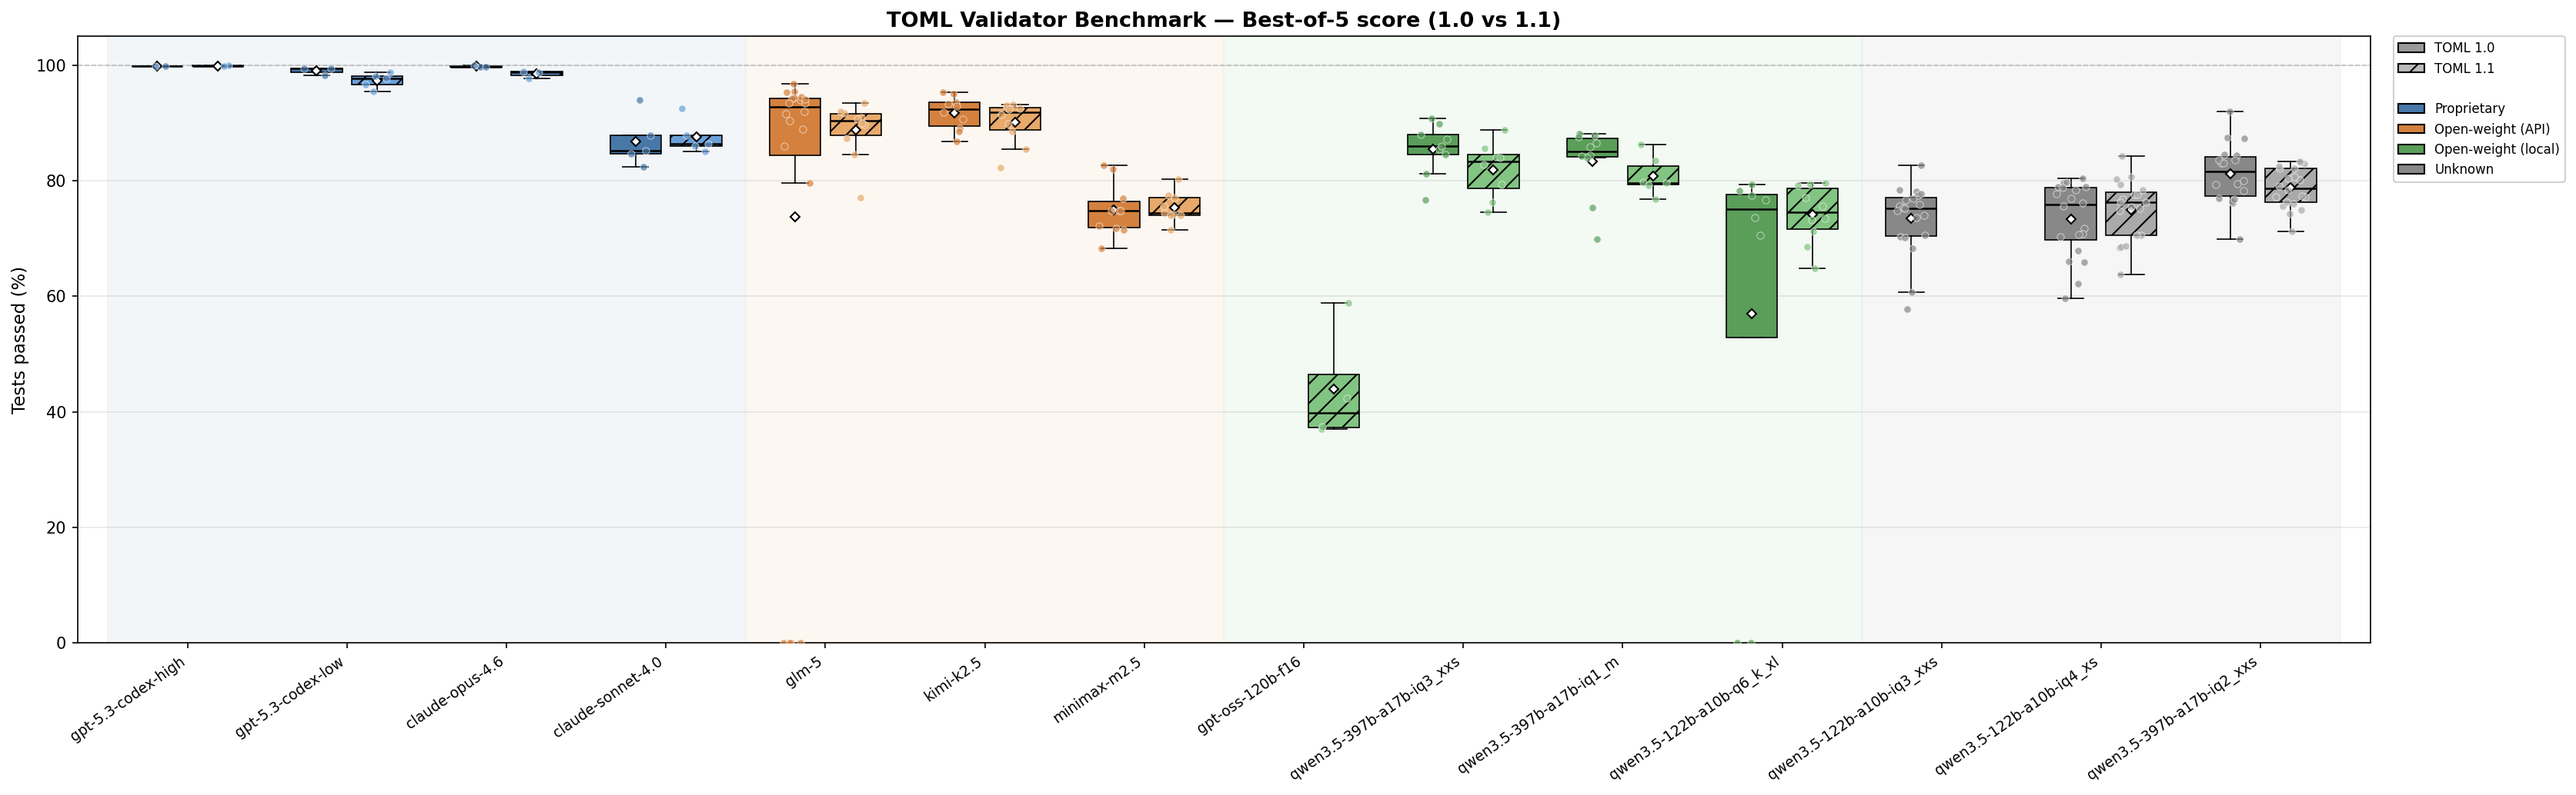
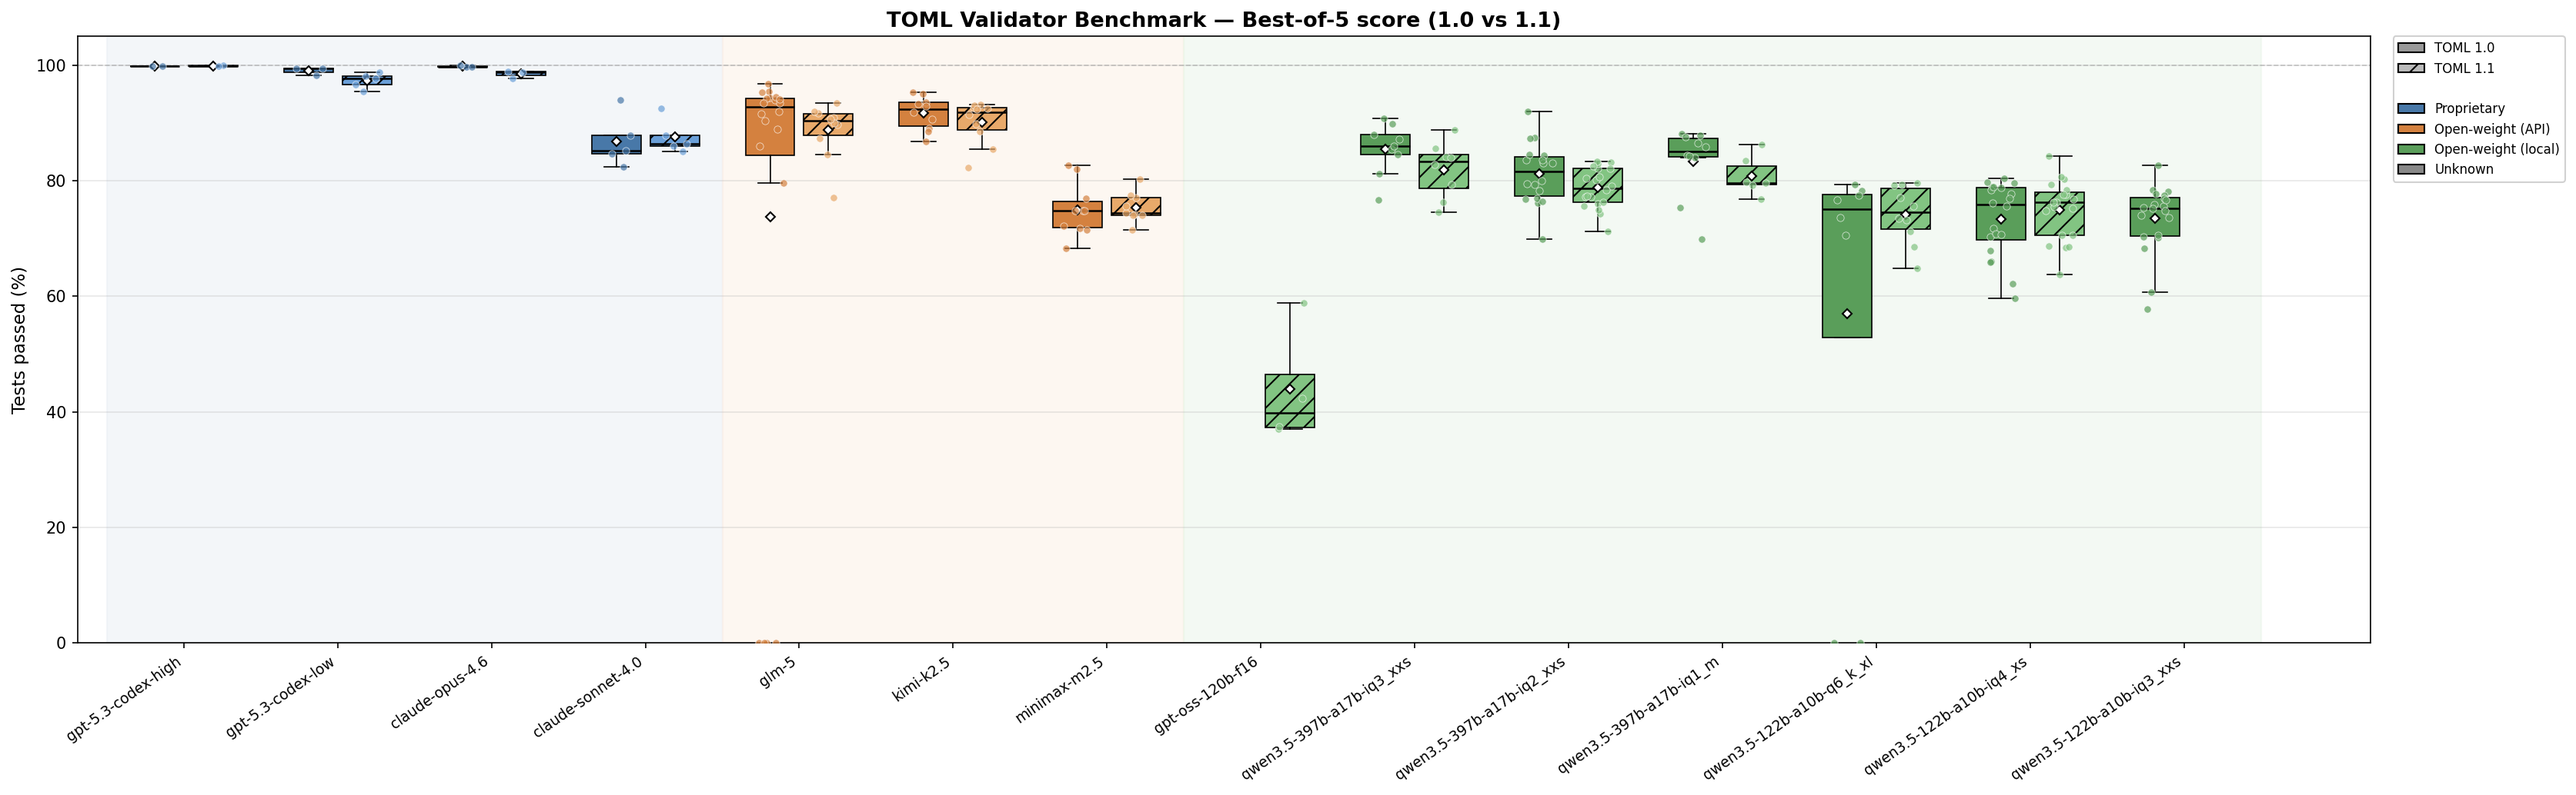
Update model configs: add missing qwen quants, group by model and quant level
Added missing slugs (qwen3.5-397b-a17b-iq2_xxs, qwen3.5-122b-a10b-iq3_xxs)
to MODEL_CONFIG in plot_comparison.py and MODEL_COLORS in analyze_turns.py.

Qwen models are now grouped by base model then ordered by quant level
(highest quality first): 397b variants (iq3_xxs > iq2_xxs > iq1_m),
then 122b variants (q8 > q6_k_xl > iq4_xs > iq3_xxs > base).

Color scheme uses brown tones for 397b variants (darker = higher quant)
and teal tones for 122b variants. Regenerated both charts.

diff --git a/plot_comparison.py b/plot_comparison.py
@@ -23,13 +23,18 @@ MODEL_CONFIG = OrderedDict([
     ("kimi-k2.5",           "api"),
     ("minimax-m2.5",        "api"),
     ("devstral",            "api"),
-    ("gpt-oss-120b-f16",    "local"),
+    ("gpt-oss-120b-f16",        "local"),
+    # qwen3.5-397b-a17b: grouped by quant level (high to low)
     ("qwen3.5-397b-a17b",       "local"),
     ("qwen3.5-397b-a17b-iq3_xxs", "local"),
+    ("qwen3.5-397b-a17b-iq2_xxs", "local"),
     ("qwen3.5-397b-a17b-iq1_m",   "local"),
-    ("qwen3.5-122b-a10b",         "local"),
-    ("qwen3.5-122b-a10b-q6_k_xl", "local"),
+    # qwen3.5-122b-a10b: grouped by quant level (high to low)
     ("qwen3.5-122b-q8",           "local"),
+    ("qwen3.5-122b-a10b-q6_k_xl", "local"),
+    ("qwen3.5-122b-a10b-iq4_xs",  "local"),
+    ("qwen3.5-122b-a10b-iq3_xxs", "local"),
+    ("qwen3.5-122b-a10b",         "local"),
 ])
 
 CATEGORY_COLORS = {

diff --git a/analyze_turns.py b/analyze_turns.py
@@ -24,11 +24,17 @@ MODEL_COLORS = {
     "minimax-m2.5": "#e377c2",
     "devstral": "#bcbd22",
     "gpt-oss-120b-f16": "#9467bd",
+    # qwen3.5-397b-a17b variants (brown tones, darker = higher quant)
+    "qwen3.5-397b-a17b": "#5b3a1a",
     "qwen3.5-397b-a17b-iq3_xxs": "#8c564b",
+    "qwen3.5-397b-a17b-iq2_xxs": "#a0725e",
     "qwen3.5-397b-a17b-iq1_m": "#c49c94",
+    # qwen3.5-122b-a10b variants (teal tones, darker = higher quant)
+    "qwen3.5-122b-q8": "#0a6e6e",
     "qwen3.5-122b-a10b-q6_k_xl": "#17becf",
     "qwen3.5-122b-a10b-iq4_xs": "#7fcdbb",
-    "qwen3.5-122b-q8": "#aec7e8",
+    "qwen3.5-122b-a10b-iq3_xxs": "#a8dbd9",
+    "qwen3.5-122b-a10b": "#aec7e8",
 }
 _FALLBACK_COLORS = plt.cm.tab20.colors
 
